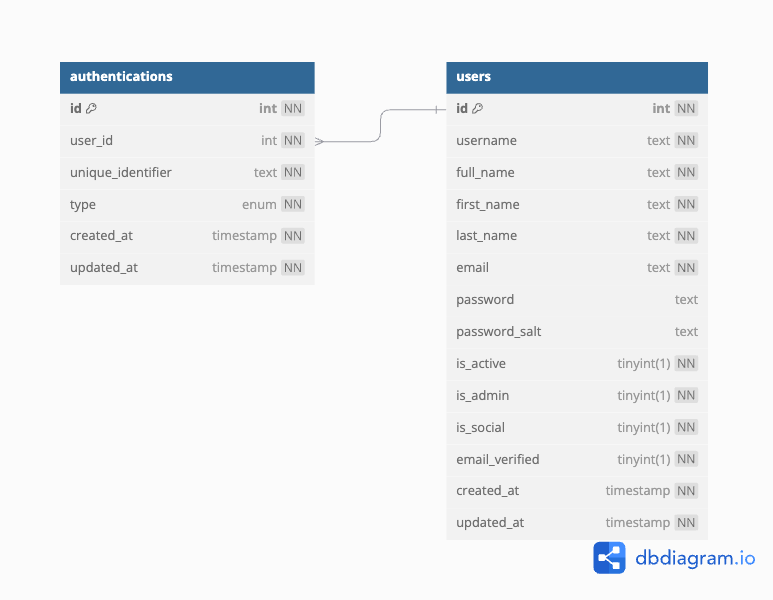
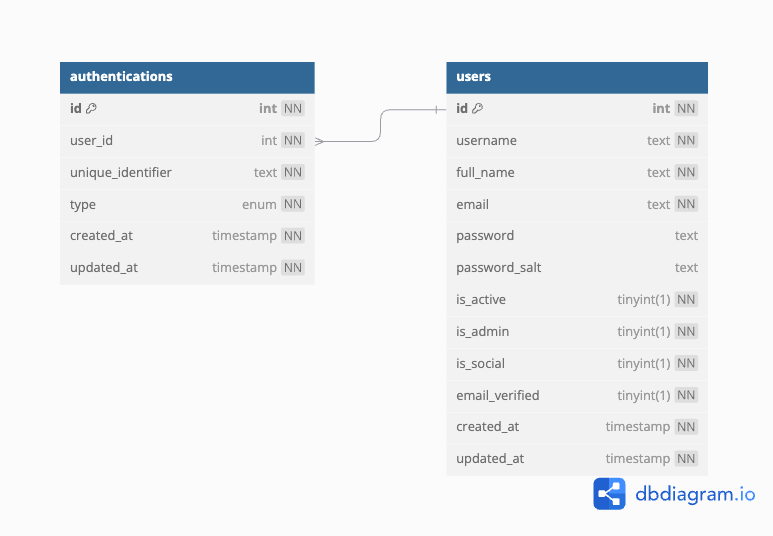
Refactor auth flow and update registration messaging
Updated registration redirect and success messaging to improve user experience, especially for email verification. Cleaned up and reorganized error/success message display in auth views. Adjusted database schema to remove unused name fields and unify collations.

diff --git a/secure/src/Components/Auth/views/login.php b/secure/src/Components/Auth/views/login.php
@@ -33,21 +33,6 @@ $data = isset($_POST["data"]) ? json_decode($_POST["data"], true) : [];
                 <div class="d-grid">
                     <button type="submit" class="btn btn-primary default-rounded">Sign in</button>
                 </div>
-
-                <?php if (isset($_POST["ERROR"])) { ?>
-                    <p class="mt-3 mb-0 text-danger text-center">
-                        <?= $_POST["ERROR"] ?>
-                    </p>
-                <?php } if (isset($_POST["ERROR"]) && $_POST["ERROR"] === "Your email address is not verified yet.") { ?>
-                    <p class="mt-1 mb-0 text-body-secondary text-center fst-italic" style="font-size: 0.9rem;">
-                        Send a new verification email? <a class="text-decoration-none" href="<?= PUBLIC_URL . "/resend-verification-email/" . encryptText($data["uid"] ?? "") ?>">Click here</a>.
-                    </p>
-                <?php } ?>
-                <?php if (isset($_POST["SUCCESS"])) { ?>
-                    <p class="mt-3 mb-0 text-success text-center">
-                        <?= $_POST["SUCCESS"] ?>
-                    </p>
-                <?php } ?>
             </form>
 
             <?php if ($_ENV["FRONSKY_API_ENABLED"] == "true") { ?>
@@ -56,6 +41,21 @@ $data = isset($_POST["data"]) ? json_decode($_POST["data"], true) : [];
                         Continue with Fronsky®
                     </a>
                 </div>
+            <?php } ?>
+
+            <?php if (isset($_POST["ERROR"])) { ?>
+                <p class="mt-3 mb-0 text-danger text-center">
+                    <?= $_POST["ERROR"] ?>
+                </p>
+            <?php } if (isset($_POST["ERROR"]) && $_POST["ERROR"] === "Your email address is not verified yet.") { ?>
+                <p class="mt-1 mb-0 text-body-secondary text-center fst-italic" style="font-size: 0.9rem;">
+                    Send a new verification email? <a class="text-decoration-none" href="<?= PUBLIC_URL . "/resend-verification-email/" . encryptText($data["uid"] ?? "") ?>">Click here</a>.
+                </p>
+            <?php } ?>
+            <?php if (isset($_POST["SUCCESS"])) { ?>
+                <p class="mt-3 mb-0 text-success text-center">
+                    <?= $_POST["SUCCESS"] ?>
+                </p>
             <?php } ?>
         </div>
     </div>

diff --git a/secure/src/Components/Auth/Controllers/RegisterController.php b/secure/src/Components/Auth/Controllers/RegisterController.php
@@ -131,15 +131,6 @@ class RegisterController extends ComponentController
             return 200;
         }
 
-        $userData = array(
-            "id" => $user["id"],
-            "username" => decryptText($user["username"], "_username"),
-            "email" => decryptText($user["email"], "_email"),
-            "full_name" => decryptText($user["full_name"], "_full_name"),
-            "is_admin" => $user["is_admin"]
-        );
-        AuthUtil::createUserData($userData);
-
         $mail = new Mailer();
         $templateData = [
             "title" => "Welcome to " . ucwords(str_replace(['-', '_'], ' ', $_ENV["APP_NAME"])),
@@ -177,7 +168,12 @@ class RegisterController extends ComponentController
             ->setReplyTo($_ENV["MAIL_FROM_ADDRESS"], $_ENV["MAIL_FROM_NAME"])
             ->send();
 
-        PageUtil::redirect(AuthComponent::getSettings()["register.redirect_to"]);
+        $successMsg = "Your account has been created successfully. You can now log in.";
+        if (AuthComponent::getSettings()["verify_email.enabled"]) {
+            $successMsg = "Your account has been created successfully. We’ve sent a verification email to your inbox. Please confirm your email address before logging in. If you don’t see the email, check your spam folder.";
+        }
+
+        PageUtil::redirect(AuthComponent::getSettings()["register.redirect_to"], array("SUCCESS" => $successMsg));
         return 200;
     }
 

diff --git a/secure/src/Components/Auth/views/register.php b/secure/src/Components/Auth/views/register.php
@@ -47,21 +47,21 @@ $data = isset($_POST["data"]) ? json_decode($_POST["data"], true) : [];
                 <div class="d-grid">
                     <button type="submit" class="btn btn-primary default-rounded">Sign up</button>
                 </div>
-
-                <?php if (isset($_POST["ERROR"])) { ?>
-                    <p class="mt-3 mb-0 text-danger text-center">
-                        <?= $_POST["ERROR"] ?>
-                    </p>
-                <?php } ?>
-
-                <?php if ($_ENV["FRONSKY_API_ENABLED"] == "true") { ?>
-                    <div class="d-grid mt-3">
-                        <a href="<?= PUBLIC_URL . "/api/login" ?>" class="btn btn-secondary default-rounded">
-                            Continue with Fronsky®
-                        </a>
-                    </div>
-                <?php } ?>
             </form>
+
+            <?php if ($_ENV["FRONSKY_API_ENABLED"] == "true") { ?>
+                <div class="d-grid mt-3">
+                    <a href="<?= PUBLIC_URL . "/api/login" ?>" class="btn btn-secondary default-rounded">
+                        Continue with Fronsky®
+                    </a>
+                </div>
+            <?php } ?>
+
+            <?php if (isset($_POST["ERROR"])) { ?>
+                <p class="mt-3 mb-0 text-danger text-center">
+                    <?= $_POST["ERROR"] ?>
+                </p>
+            <?php } ?>
         </div>
     </div>
 

diff --git a/secure/src/Components/Auth/views/forgot-password.php b/secure/src/Components/Auth/views/forgot-password.php
@@ -30,18 +30,18 @@ $data = isset($_POST["data"]) ? json_decode($_POST["data"], true) : [];
                 <div class="d-grid">
                     <button type="submit" class="btn btn-primary default-rounded">Send email</button>
                 </div>
-
-                <?php if (isset($_POST["ERROR"])) { ?>
-                    <p class="mt-3 mb-0 text-danger text-center">
-                        <?= $_POST["ERROR"] ?>
-                    </p>
-                <?php } ?>
-                <?php if (isset($_POST["SUCCESS"])) { ?>
-                    <p class="mt-3 mb-0 text-success text-center">
-                        <?= $_POST["SUCCESS"] ?>
-                    </p>
-                <?php } ?>
             </form>
+
+            <?php if (isset($_POST["ERROR"])) { ?>
+                <p class="mt-3 mb-0 text-danger text-center">
+                    <?= $_POST["ERROR"] ?>
+                </p>
+            <?php } ?>
+            <?php if (isset($_POST["SUCCESS"])) { ?>
+                <p class="mt-3 mb-0 text-success text-center">
+                    <?= $_POST["SUCCESS"] ?>
+                </p>
+            <?php } ?>
         </div>
     </div>
 

diff --git a/secure/src/Components/Auth/views/reset-password.php b/secure/src/Components/Auth/views/reset-password.php
@@ -36,13 +36,13 @@ $data = isset($_POST["data"]) ? json_decode($_POST["data"], true) : [];
                 <div class="d-grid">
                     <button type="submit" class="btn btn-primary default-rounded">Reset password</button>
                 </div>
-
-                <?php if (isset($_POST["ERROR"])) { ?>
-                    <p class="mt-3 mb-0 text-danger text-center">
-                        <?= $_POST["ERROR"] ?>
-                    </p>
-                <?php } ?>
             </form>
+
+            <?php if (isset($_POST["ERROR"])) { ?>
+                <p class="mt-3 mb-0 text-danger text-center">
+                    <?= $_POST["ERROR"] ?>
+                </p>
+            <?php } ?>
         </div>
     </div>
 

diff --git a/secure/src/Components/Auth/AuthComponent.php b/secure/src/Components/Auth/AuthComponent.php
@@ -22,8 +22,8 @@ class AuthComponent extends Component
         "password.require_special_characters" => true,
 
         "login.redirect_to" => "/",
-        "register.redirect_to" => "/",
-        "logout.redirect_to" => "/login",
+        "register.redirect_to" => "/login",
+        "logout.redirect_to" => "/",
     ];
 
     public function __construct()
